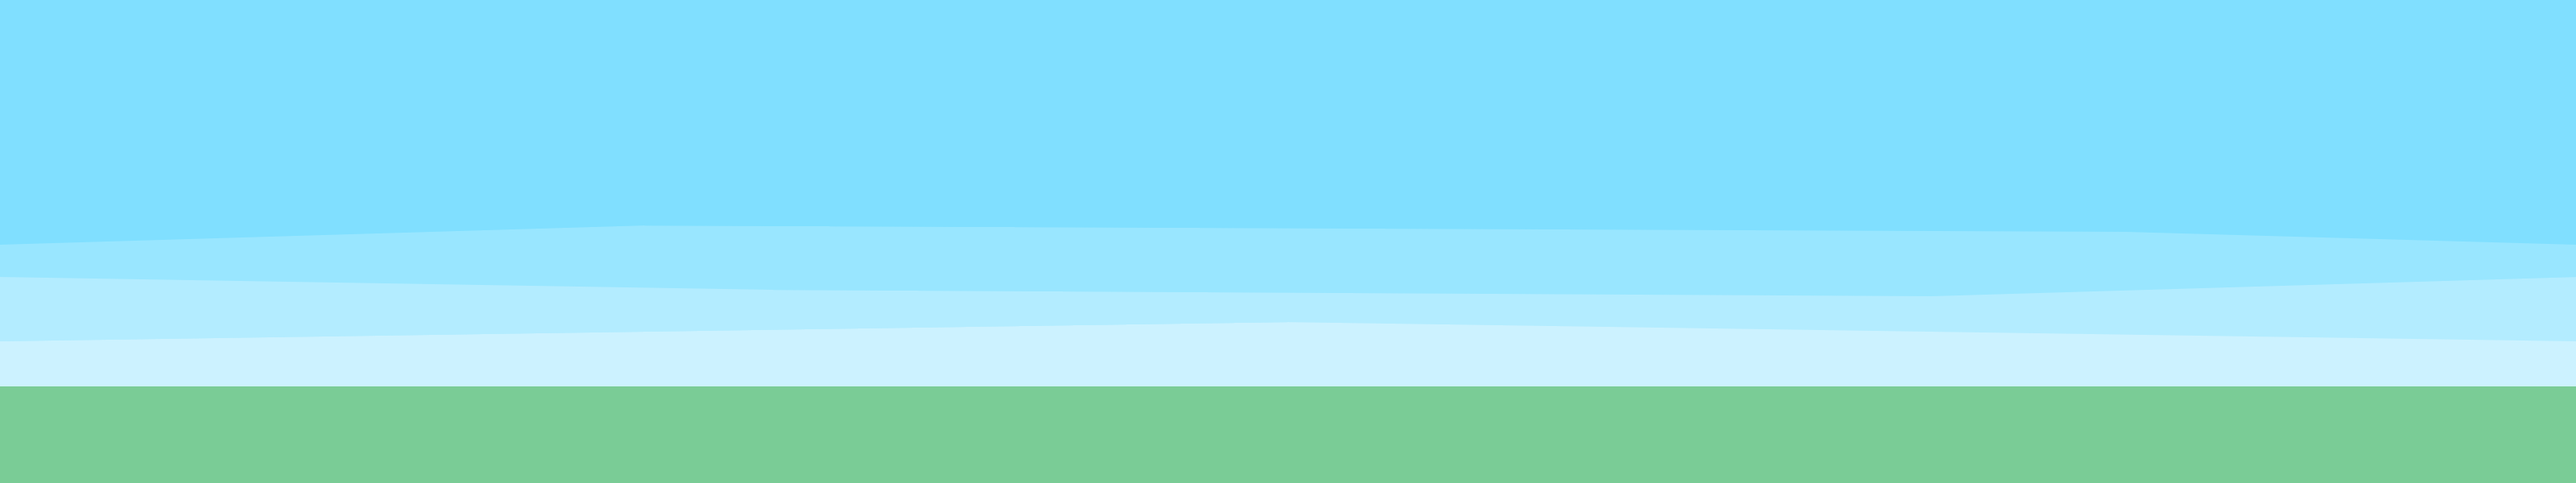
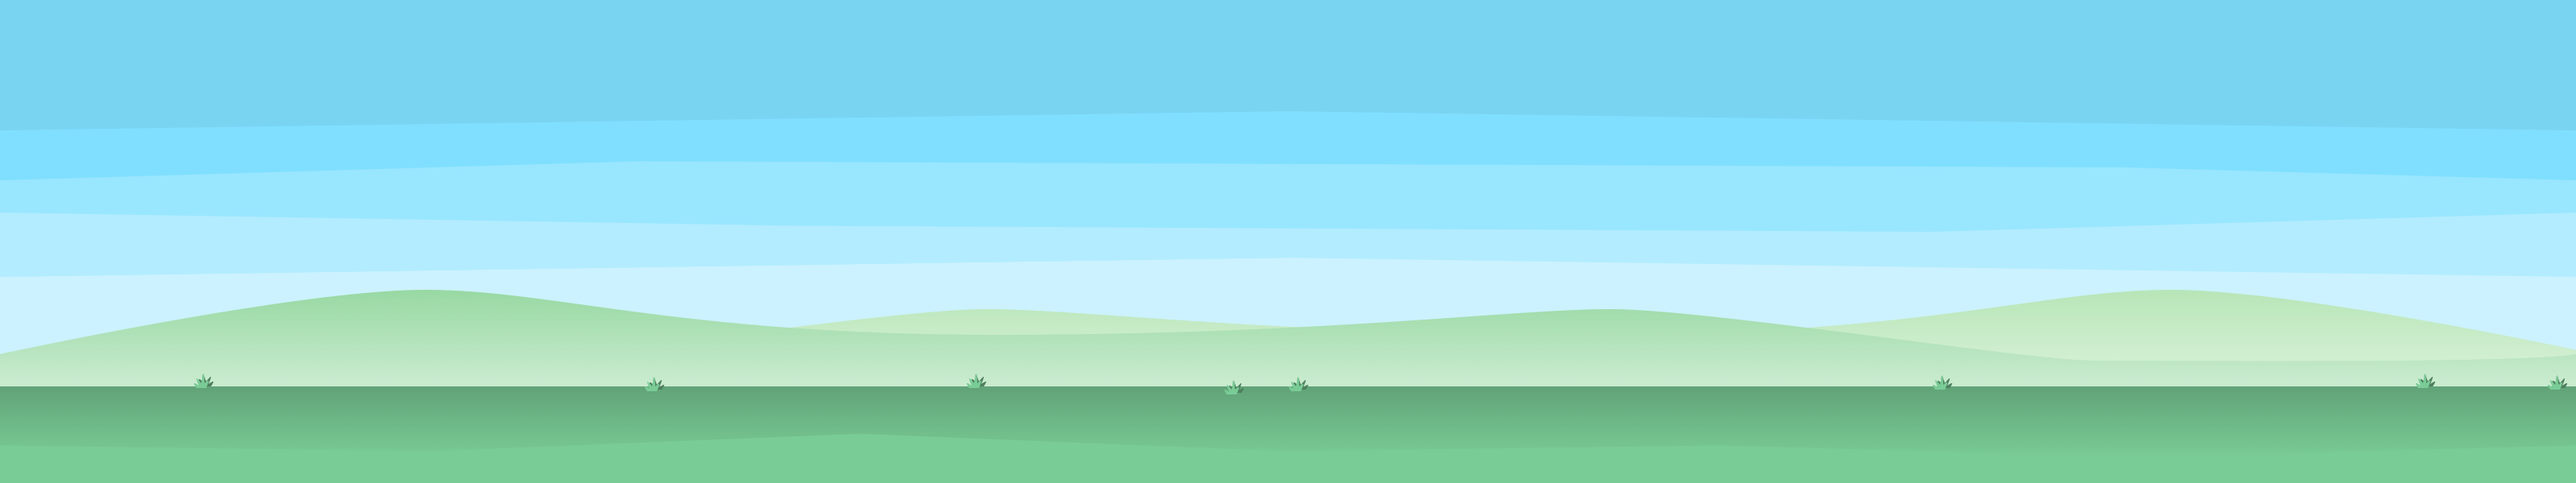
added new BG, changed position of sheep a bit up

diff --git a/src/states/play.js b/src/states/play.js
@@ -24,11 +24,11 @@ export class Play extends Phaser.State {
         this.background = this.game.add.tileSprite(0, 0, 800, 600, 'background');
 
         // add invisible floor so player walks a bit above the edge of the window
-        this.floor = new Floor(this.game, 0, 550);
+        this.floor = new Floor(this.game, 0, 520);
         this.game.add.existing(this.floor);
 
         // add player
-        this.player = new Player(this.game, 20, 450);
+        this.player = new Player(this.game, 20, 480);
         this.game.add.existing(this.player);
 
         this.clouds = [];
@@ -97,7 +97,7 @@ export class Play extends Phaser.State {
         this.player.move(this.cursors);
 
         //  Scroll the background
-        this.background.tilePosition.x -= 20;
+        this.background.tilePosition.x -= 5;
 
         if (this.count % DIFFICULTY_TICK === 0) {
           DIFFICULTY = Math.floor((this.count / DIFFICULTY_TICK)) * DIFFICULTY_RANGE;

diff --git a/src/states/menu.js b/src/states/menu.js
@@ -26,7 +26,6 @@ export class Menu extends Phaser.State {
             fill: 'white'
         };
 
-        //textStyle.setShadow(5, 5, 'rgba(0,0,0,0.5)', 5);
 
         let title = this.game.add.text(this.game.world.centerX, this.game.world.centerY - 75, 'WOLLY', textStyleTitle);
         title.anchor.set(0.5);
@@ -46,8 +45,4 @@ export class Menu extends Phaser.State {
         });
     }
 
-    update() {
-        //  Scroll the background
-        this.background.tilePosition.x -= 20;
-    }
 }
